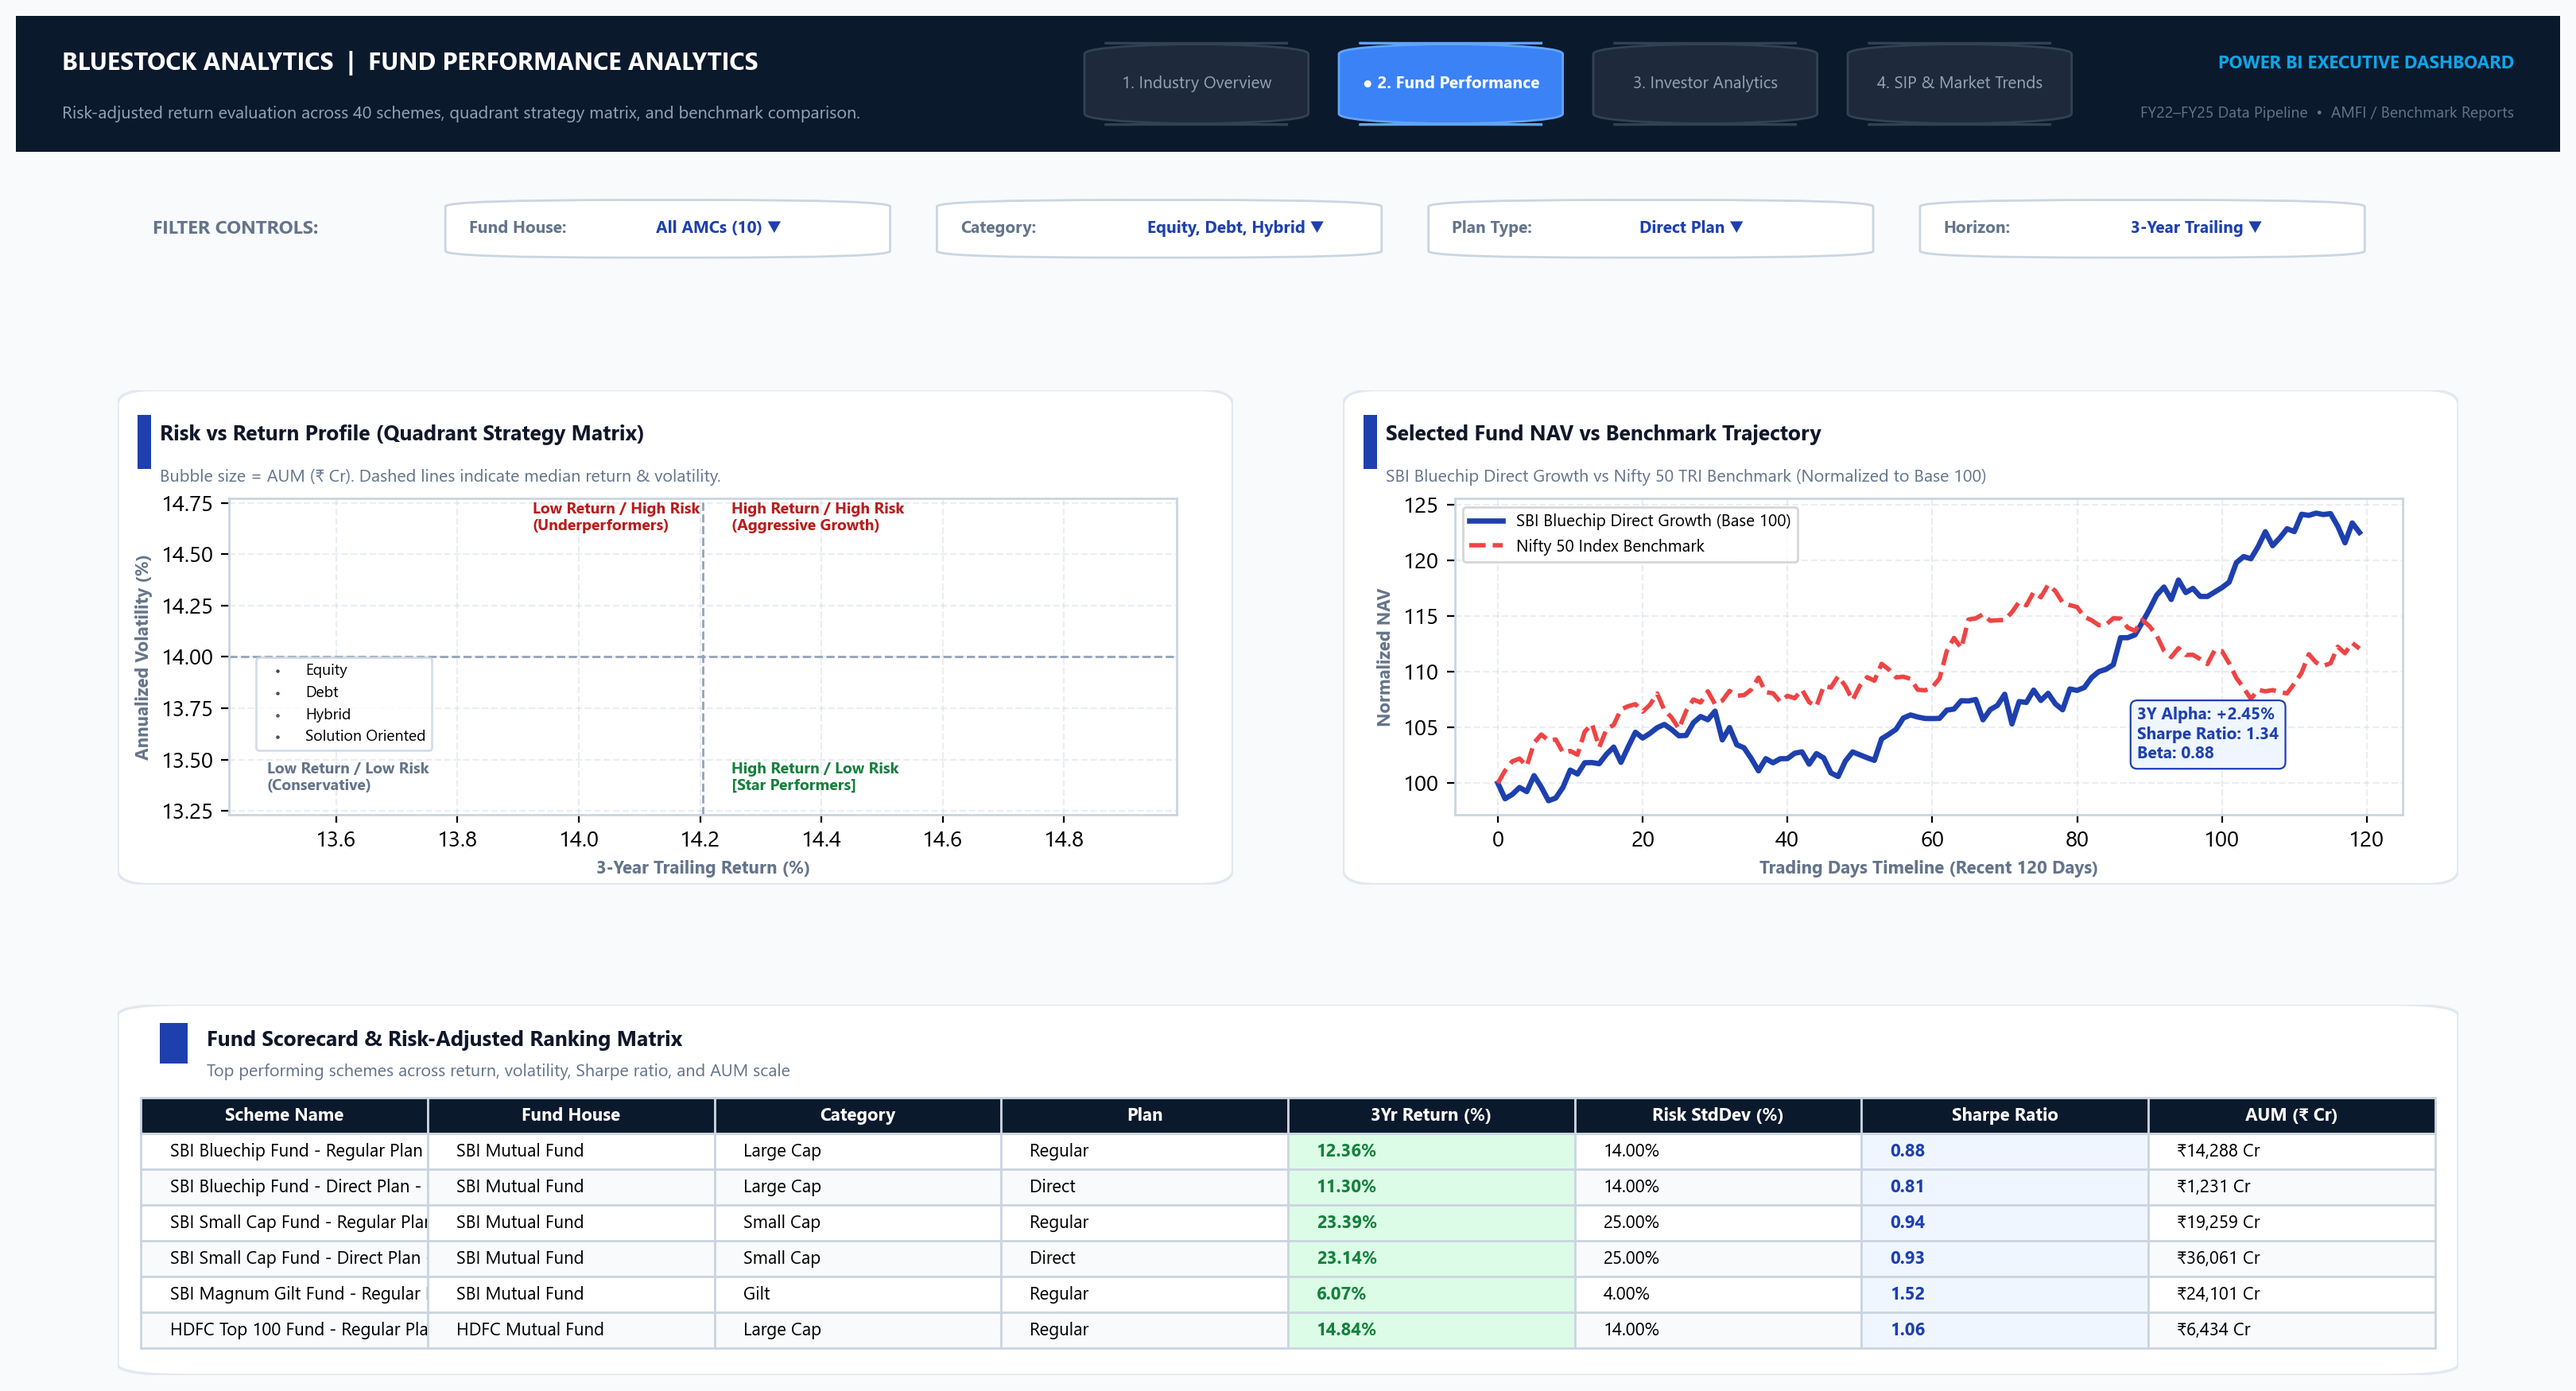
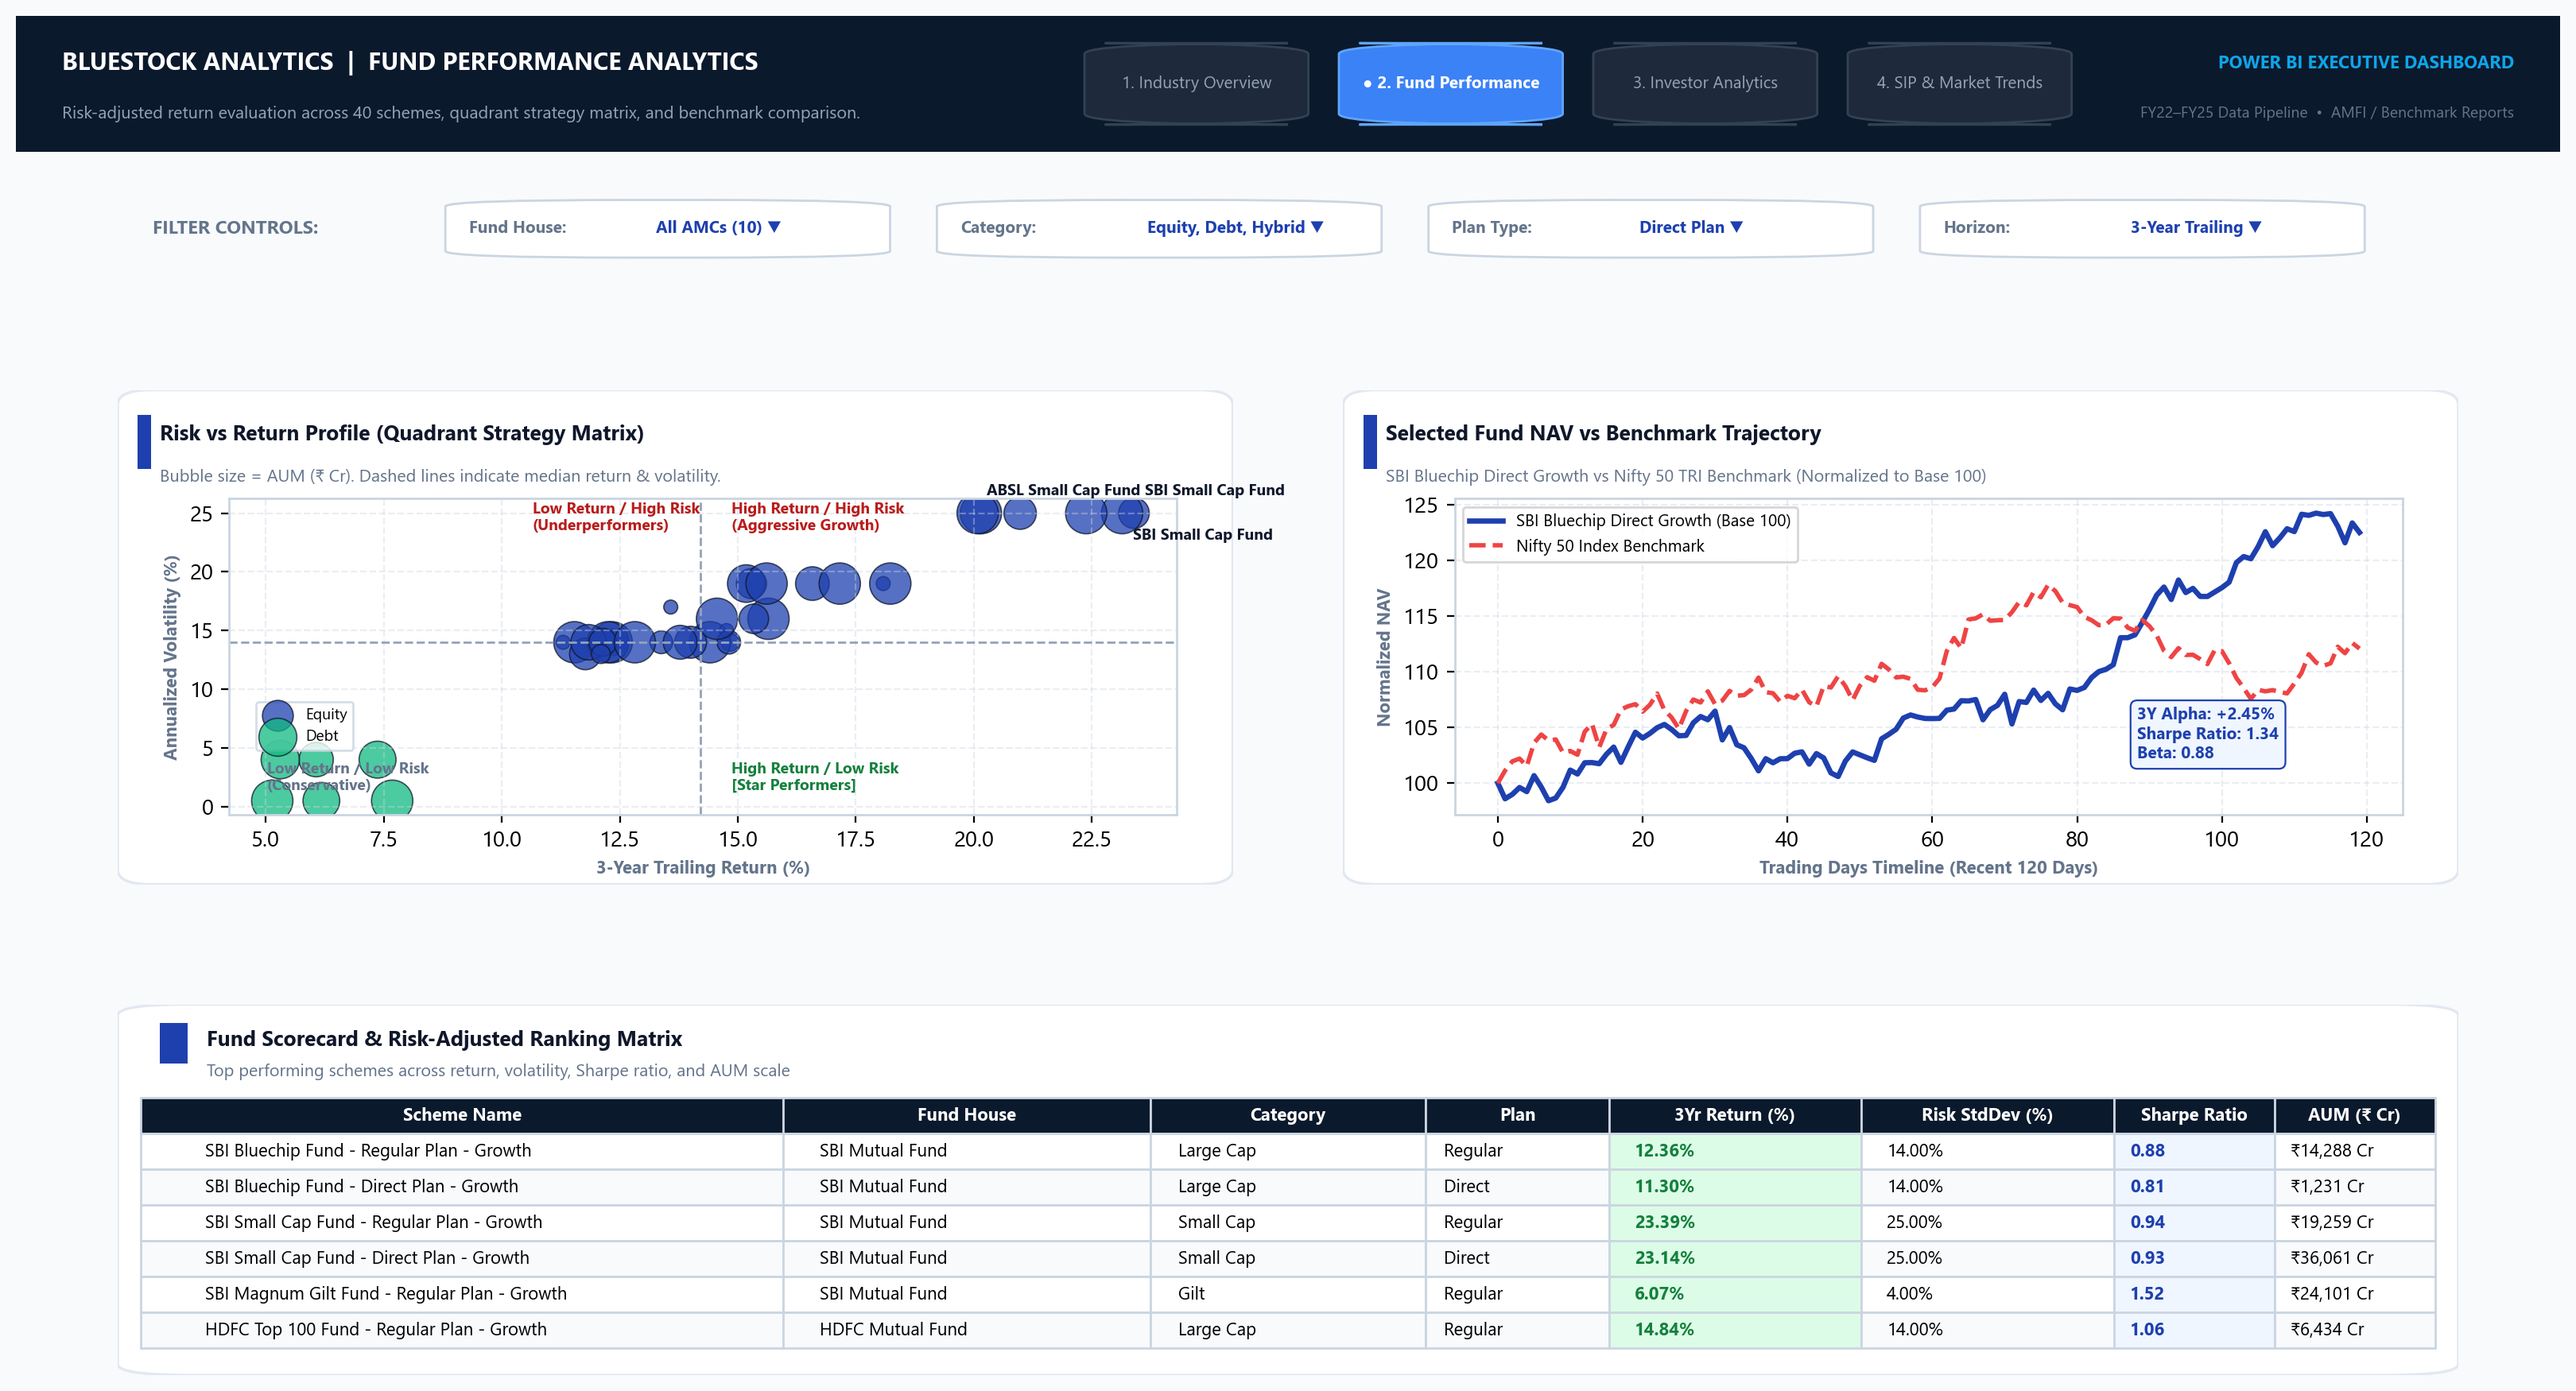
fix: restore risk return bubble visualization

diff --git a/SOURCE CODE/generate_powerbi_dashboard.py b/SOURCE CODE/generate_powerbi_dashboard.py
@@ -239,8 +239,8 @@ def generate_page1():
         ax_kpi = fig.add_subplot(gs[0, i])
         draw_kpi_card(ax_kpi, title, val, yoy, sub, spark)
     
-    # 2. Middle-Left: Industry AUM Trend Line Chart (Container with clear padding)
-    ax_card_trend, ax_trend = create_card_with_plot(fig, gs[1, :2], "Industry AUM Trajectory (2022 – 2025)", "Total Assets Under Management growth in Lakh Crore ₹",
+    # 2. Middle-Left: Top 10 AMCs Combined AUM Trajectory Line Chart (Container with clear padding)
+    ax_card_trend, ax_trend = create_card_with_plot(fig, gs[1, :2], "Top 10 AMCs Combined AUM Trajectory (2022 – 2025)", "Top 10 Fund Houses AUM growth (₹62.7 L Cr vs ₹81.5 L Cr Total Industry AUM)",
                                                     top_margin=0.22, bottom_margin=0.14, left_margin=0.10, right_margin=0.05)
     
     aum_trend = aum_by_house.groupby('date')['aum_lakh_crore'].sum().reset_index()
@@ -249,7 +249,7 @@ def generate_page1():
     
     ax_trend.plot(range(len(aum_trend)), aum_trend['aum_lakh_crore'], color=PRIMARY_BLUE, linewidth=2.8, marker='o', markersize=5)
     ax_trend.fill_between(range(len(aum_trend)), aum_trend['aum_lakh_crore'], color=PRIMARY_BLUE, alpha=0.12)
-    ax_trend.set_ylabel("AUM (Lakh Crore ₹)", fontsize=8.5, fontweight='bold', color=TEXT_MUTED)
+    ax_trend.set_ylabel("Top 10 AMCs AUM (Lakh Cr ₹)", fontsize=8.0, fontweight='bold', color=TEXT_MUTED)
     
     tick_locs = range(0, len(aum_trend), max(1, len(aum_trend)//6))
     ax_trend.set_xticks(tick_locs)
@@ -259,7 +259,7 @@ def generate_page1():
     y_start, y_end = aum_trend['aum_lakh_crore'].iloc[0], aum_trend['aum_lakh_crore'].iloc[-1]
     ax_trend.annotate(f'₹{y_start:.1f} L Cr', (0, y_start), textcoords="offset points", xytext=(10, -12),
                         fontweight='bold', fontsize=8.0, color=PRIMARY_BLUE, bbox=dict(boxstyle="round,pad=0.2", fc="#EFF6FF", ec=PRIMARY_BLUE, lw=0.8))
-    ax_trend.annotate(f'₹{y_end:.1f} L Cr', (len(aum_trend)-1, y_end), textcoords="offset points", xytext=(-45, 10),
+    ax_trend.annotate(f'₹{y_end:.1f} L Cr (77% Share)', (len(aum_trend)-1, y_end), textcoords="offset points", xytext=(-75, 10),
                         fontweight='bold', fontsize=8.0, color=PRIMARY_BLUE, bbox=dict(boxstyle="round,pad=0.2", fc="#EFF6FF", ec=PRIMARY_BLUE, lw=0.8))
     
     # 3. Middle-Right: Top 10 AMCs by AUM Horizontal Bar Chart (Generous left margin for AMC labels & aligned top)
@@ -289,9 +289,9 @@ def generate_page1():
     top5_aum = amc_lakh_cr.tail(5).sum()
     top5_pct = (top5_aum / 81.50) * 100
     
-    ax_card1.text(0.05, 0.70, f"• Top 3 AMCs (SBI, ICICI, HDFC) control ₹{top3_aum:.2f} Lakh Cr ({top3_pct:.1f}% Market Share)", fontsize=8.5, fontweight='bold', color=TEXT_DARK)
-    ax_card1.text(0.05, 0.45, f"• Top 5 AMCs hold ₹{top5_aum:.2f} Lakh Cr ({top5_pct:.1f}% Market Share), demonstrating strong tier-1 concentration.", fontsize=8.5, color=TEXT_MUTED)
-    ax_card1.text(0.05, 0.20, "• Systematic retail inflows continue to consolidate within top-rated asset managers.", fontsize=8.5, color=TEXT_MUTED)
+    ax_card1.text(0.05, 0.70, f"• Top 10 AMCs account for ₹62.74 Lakh Cr (77.0% Share) of Total Industry AUM (₹81.50 Lakh Cr).", fontsize=8.5, fontweight='bold', color=TEXT_DARK)
+    ax_card1.text(0.05, 0.45, f"• Top 3 AMCs (SBI, ICICI, HDFC) control ₹{top3_aum:.2f} Lakh Cr ({top3_pct:.1f}% Industry Share).", fontsize=8.5, color=TEXT_MUTED)
+    ax_card1.text(0.05, 0.20, f"• Top 5 AMCs hold ₹{top5_aum:.2f} Lakh Cr ({top5_pct:.1f}% Industry Share), demonstrating high consolidation.", fontsize=8.5, color=TEXT_MUTED)
 
     ax_card2 = fig.add_subplot(gs[2, 2:])
     draw_card_box(ax_card2, "Retail Expansion & Structural Growth Drivers")
@@ -330,9 +330,20 @@ def generate_page2():
     ax_card_scat, ax_scatter = create_card_with_plot(fig, gs[1, :2], "Risk vs Return Profile (Quadrant Strategy Matrix)", "Bubble size = AUM (₹ Cr). Dashed lines indicate median return & volatility.",
                                                      top_margin=0.22, bottom_margin=0.14, left_margin=0.10, right_margin=0.05)
     
-    cat_palette = {'Equity': '#1E40AF', 'Debt': '#10B981', 'Hybrid': '#F59E0B', 'Solution Oriented': '#8B5CF6'}
-    med_return = scheme_performance['return_3yr_pct'].median()
-    med_risk = scheme_performance['std_dev_ann_pct'].median()
+    def map_broad_cat(cat):
+        if cat in ['Gilt', 'Short Duration', 'Liquid']:
+            return 'Debt'
+        elif cat in ['Hybrid', 'Solution Oriented', 'Arbitrage', 'Balanced Advantage']:
+            return 'Hybrid'
+        else:
+            return 'Equity'
+
+    sp_copy = scheme_performance.copy()
+    sp_copy['broad_category'] = sp_copy['category'].apply(map_broad_cat)
+
+    cat_palette = {'Equity': '#1E40AF', 'Debt': '#10B981', 'Hybrid': '#F59E0B'}
+    med_return = sp_copy['return_3yr_pct'].median()
+    med_risk = sp_copy['std_dev_ann_pct'].median()
     
     ax_scatter.axvline(med_return, color='#94A3B8', linestyle='--', linewidth=1.0)
     ax_scatter.axhline(med_risk, color='#94A3B8', linestyle='--', linewidth=1.0)
@@ -343,14 +354,17 @@ def generate_page2():
     ax_scatter.text(0.32, 0.90, "Low Return / High Risk\n(Underperformers)", transform=ax_scatter.transAxes, fontsize=7.0, color='#B91C1C', fontweight='bold')
     
     for cat, color in cat_palette.items():
-        sub = scheme_performance[scheme_performance['category'] == cat]
-        sizes = np.clip(sub['aum_crore'] / 100, 30, 350)
-        ax_scatter.scatter(sub['return_3yr_pct'], sub['std_dev_ann_pct'], s=sizes, color=color, alpha=0.75, edgecolors='#0F172A', linewidth=0.6, label=cat)
+        sub = sp_copy[sp_copy['broad_category'] == cat]
+        if len(sub) > 0:
+            sizes = np.clip(sub['aum_crore'] / 100, 40, 350)
+            ax_scatter.scatter(sub['return_3yr_pct'], sub['std_dev_ann_pct'], s=sizes, color=color, alpha=0.75, edgecolors='#0F172A', linewidth=0.6, label=cat)
     
-    top_funds = scheme_performance.sort_values('return_3yr_pct', ascending=False).head(3)
-    for _, row in top_funds.iterrows():
-        ax_scatter.annotate(row['scheme_name'].split('-')[0].strip(), (row['return_3yr_pct'], row['std_dev_ann_pct']),
-                            xytext=(5, 5), textcoords='offset points', fontsize=7.0, fontweight='bold', color=TEXT_DARK)
+    top_funds = sp_copy.sort_values('return_3yr_pct', ascending=False).head(3)
+    offsets = [(5, 8), (5, -12), (-45, 8)]
+    for idx, (_, row) in enumerate(top_funds.iterrows()):
+        short_name = row['scheme_name'].split('-')[0].strip()
+        ax_scatter.annotate(short_name, (row['return_3yr_pct'], row['std_dev_ann_pct']),
+                            xytext=offsets[idx % len(offsets)], textcoords='offset points', fontsize=7.0, fontweight='bold', color=TEXT_DARK)
         
     ax_scatter.set_xlabel("3-Year Trailing Return (%)", fontsize=8.0, fontweight='bold', color=TEXT_MUTED)
     ax_scatter.set_ylabel("Annualized Volatility (%)", fontsize=8.0, fontweight='bold', color=TEXT_MUTED)
@@ -390,9 +404,10 @@ def generate_page2():
     matrix_df['aum_crore'] = matrix_df['aum_crore'].map('₹{:,.0f} Cr'.format)
     
     col_labels = ['Scheme Name', 'Fund House', 'Category', 'Plan', '3Yr Return (%)', 'Risk StdDev (%)', 'Sharpe Ratio', 'AUM (₹ Cr)']
+    col_widths = [0.28, 0.16, 0.12, 0.08, 0.11, 0.11, 0.07, 0.07]
     cell_text = matrix_df.values.tolist()
     
-    tab = ax_matrix.table(cellText=cell_text, colLabels=col_labels, loc='center', cellLoc='left')
+    tab = ax_matrix.table(cellText=cell_text, colLabels=col_labels, colWidths=col_widths, loc='center', cellLoc='left')
     tab.auto_set_font_size(False)
     tab.set_fontsize(8)
     tab.scale(1.0, 1.35)
